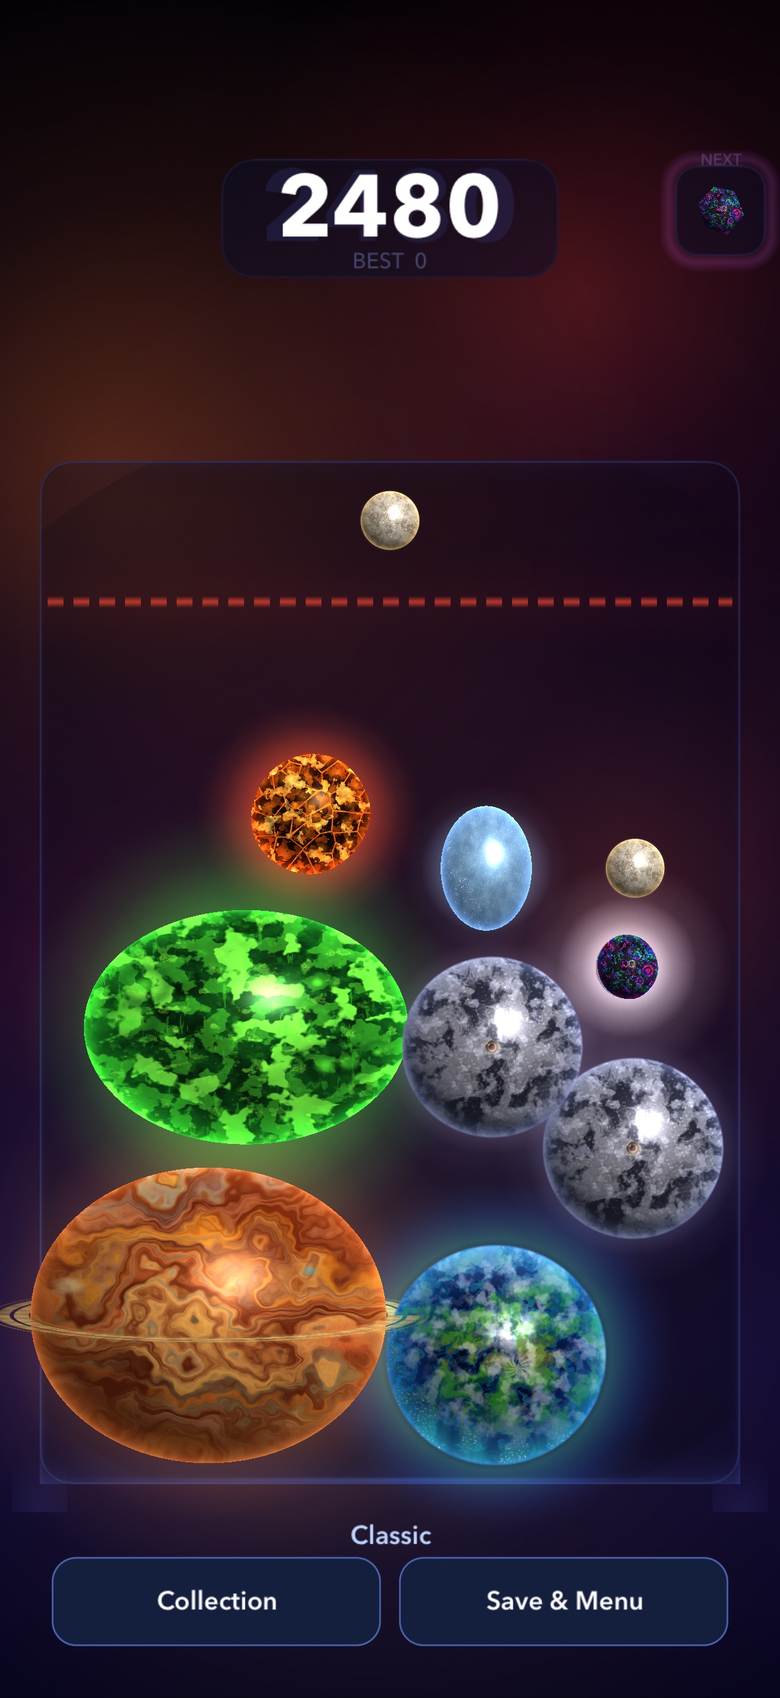
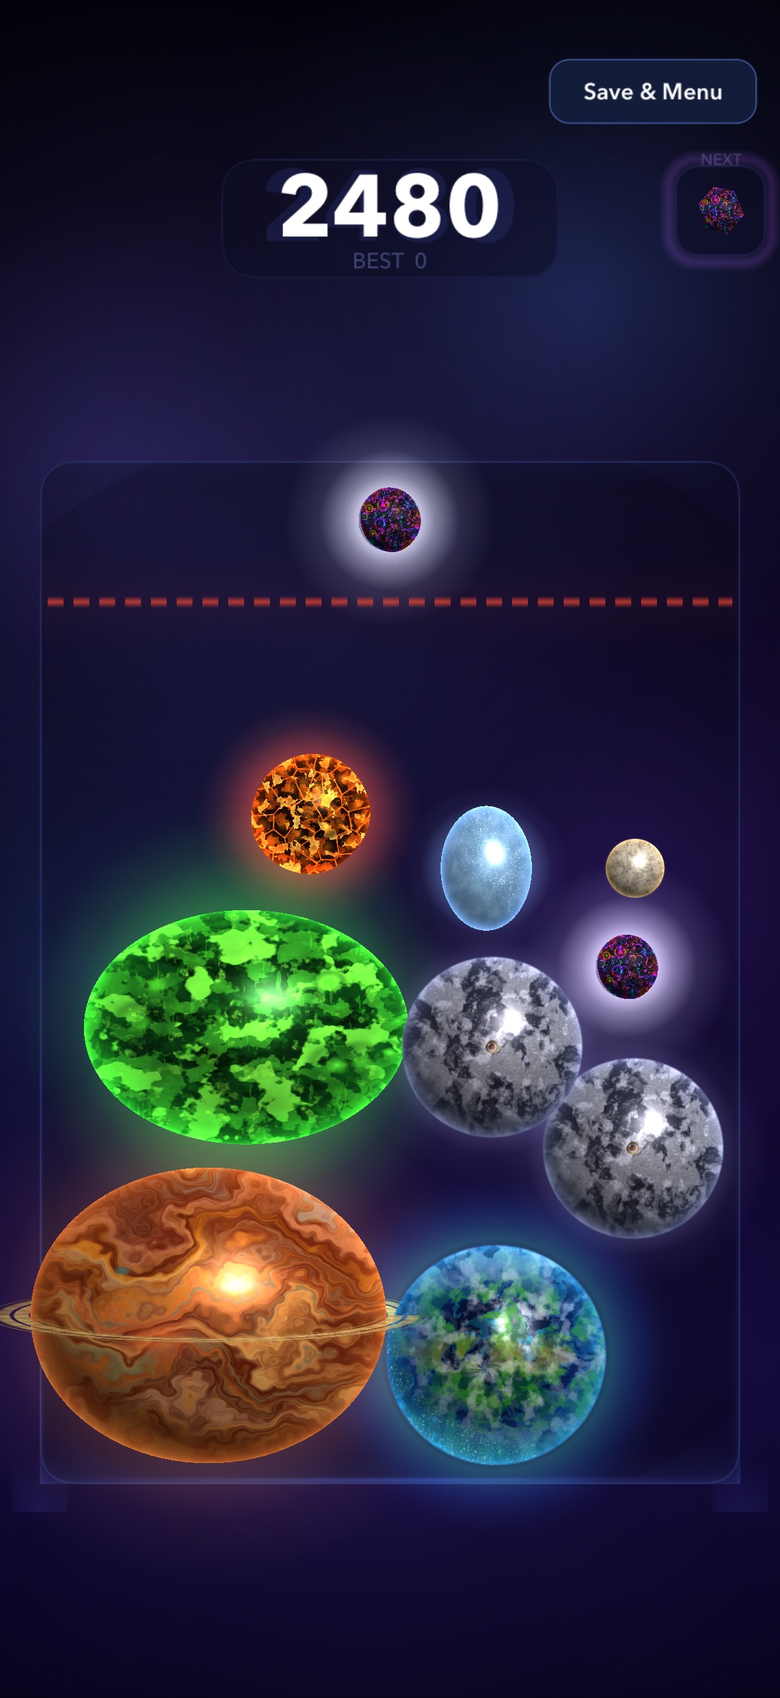
Update Normal mode copy and gameplay previews

diff --git a/support.html b/support.html
@@ -1,6 +1,6 @@
 <!doctype html><html lang="en"><head><meta charset="utf-8"><meta name="viewport" content="width=device-width,initial-scale=1"><title>Cosmic Merge Support — Controls, saved runs, and help</title><meta name="description" content="Learn Cosmic Merge controls on iPhone, iPad, Apple TV, and gamepad. Get help with saved runs, daily challenges, iCloud, and Game Center."><link rel="canonical" href="https://smidley.github.io/cosmic-merge-site/support.html"><link rel="icon" href="assets/favicon.svg" type="image/svg+xml"><link rel="stylesheet" href="assets/site.css?v=1.2.0"><meta property="og:title" content="Cosmic Merge Support"><meta property="og:description" content="Controls, saved runs, and help for your growing universe."><meta property="og:image" content="https://smidley.github.io/cosmic-merge-site/assets/gameplay-tv.jpeg"><meta name="twitter:card" content="summary_large_image"></head><body><a class="skip" href="#main">Skip to content</a><header><nav class="wrap" aria-label="Main navigation"><a class="brand" href="./"><img src="assets/favicon.svg" width="32" height="32" alt="">COSMIC MERGE</a><div class="links"><a href="support.html" aria-current="page">Support</a><a href="privacy.html">Privacy</a></div></nav></header><div class="preview"><div class="wrap">Version 1.2 preview · Save & Continue, Daily, Zen, and Collection are in development.</div></div><main id="main" class="wrap article"><p class="eyebrow">A little help from mission control</p><h1>Keep your universe moving.</h1><p class="lede">Find the controls, learn the special mechanics, and get help with progress.</p>
 <h2 id="controls">Controls</h2><p class="table-hint" id="controls-scroll-hint">On a small screen, swipe or scroll the table sideways to see every device. With a keyboard, focus the table and use the arrow keys.</p><div class="table-scroll" role="region" aria-label="Controls by device" aria-describedby="controls-scroll-hint" tabindex="0"><table><caption>Core controls by device</caption><thead><tr><th scope="col">Action</th><th scope="col">iPhone / iPad</th><th scope="col">Siri Remote</th><th scope="col">Extended gamepad on Apple TV</th></tr></thead><tbody><tr><th scope="row">Aim</th><td>Drag on the board</td><td>Pan the touchpad or press Left / Right</td><td>Left stick or D-pad Left / Right</td></tr><tr><th scope="row">Drop</th><td>Release your finger</td><td>Select</td><td>A / primary button</td></tr><tr><th scope="row">Swap with Next</th><td>Tap the Next preview</td><td>Up</td><td>Stick or D-pad Up</td></tr><tr><th scope="row">Storm Caller</th><td>Tap the charged badge, then a highlighted body</td><td>Down to arm; Left / Right to choose; Select to remove</td><td>X or Down to arm; Left / Right to choose; A to remove</td></tr><tr><th scope="row">Pause / back</th><td>Settings gear</td><td>Menu / Back or Play / Pause</td><td>B or Menu</td></tr><tr><th scope="row">Menu / volume</th><td>Tap controls or use the settings sliders</td><td>Up / Down to select; Left / Right on volume rows</td><td>Up / Down to select; Left / Right on volume rows</td></tr></tbody></table></div><p>When Storm Caller is armed, Back cancels target selection first. On the bare Apple TV title screen, the remote’s Back button returns control to the system. Extended gamepad support is for Apple TV; the iPhone and iPad interface uses touch.</p>
-<h2>Play and discover</h2><details><summary>How do merges, combos, and game over work?</summary><p>Two matching bodies merge into the next tier. Merges within one second extend a combo; merges high on the board earn a bonus. In Classic and Daily, a body’s center staying above the red danger line for two active seconds ends the run. Pause time does not count in version 1.2.</p></details><details><summary>What do ice, Storm Caller, and Black Holes do?</summary><p>Ice Rock pairs have a 20% chance to shatter into four shards instead of merging. Shards seek small bodies and clear Moonlets or Prism Rocks for up to nine active seconds. Creating a Storm World grants a Storm Caller charge. Select an eligible highlighted body to remove it. Black Holes periodically consume other bodies; merging two Black Holes adds a 10,000-point bonus.</p></details><details><summary>Which bodies can I draw?</summary><p>Moonlet, Prism Rock, Ice Rock, and Molten. Version 1.2 draws them independently with probabilities of 40%, 30%, 20%, and 10%. The full chain is Moonlet → Prism Rock → Ice Rock → Molten → Moon → Planet → Slime Planet → Gas Giant → Star → Storm World → Black Hole.</p></details><details><summary>What is new about Daily and Zen?</summary><p>Daily uses a seed based on the UTC date and Rules 2. There is one scored attempt per device per UTC day; starting it uses the attempt even if the app closes. Continue can resume a saved attempt. Practice uses the same seed without replacing your scored result. Seeded randomness does not guarantee identical physics across devices. Daily scores are local and can be shared; there is no online daily ranking in this preview.</p><p>Zen removes game over and keeps a separate best score. Use Clear Board when the stack fills up. Optional Zen Aim Assist gently snaps an aim near a matching body. Zen and Daily Practice do not contribute competitive lifetime statistics or Game Center achievements.</p></details>
-<h2>Saved runs and progress</h2><details><summary>How do I save and continue a run?</summary><p>In version 1.2, choose Save & Menu or Save & Return to Menu in Settings. Continue appears on the title screen. The game also saves about once per active second and when interrupted. A run stays on the device where it started; the board does not sync through iCloud. A board copied through a device backup can only continue on its original device, so its result cannot be counted twice. Starting a new run asks before ending an existing saved run. Tutorial progress is not saved.</p></details><details><summary>My saved run is missing or won’t load.</summary><p>First check that you are using the same device and version. Open the title screen and look for Continue. End Run deliberately removes the saved board, and starting another run replaces it after confirmation. If a save cannot be read, the app keeps the file and shows a recovery message; collection and lifetime records are stored separately. Avoid deleting or reinstalling the app before contacting support, because that can remove local saves.</p><p>When available storage is low, free space and try Save & Menu again. Include the recovery message in your support request. Runs from versions before 1.2 were not saved and cannot be reconstructed.</p></details><details><summary>Which progress syncs between devices?</summary><p>Version 1.2 uses iCloud for Classic and Zen best scores, lifetime statistics, and collection discoveries. Use the same Apple Account with iCloud enabled on each device and allow time for synchronization. Boards, daily attempt eligibility, and daily scores remain local. Concurrent device totals are merged without counting shared history twice. Keep devices on the same app version for the most consistent behavior.</p></details><details><summary>Why didn’t an achievement or score appear in Game Center?</summary><p>Check your Game Center sign-in and network connection, then reopen the game. Version 1.2 queues offline achievement progress and Classic scores and retries them after sign-in or returning to the app. Previously identified progress stays with its last signed-in player; progress earned before any sign-in is assigned to the first player who signs in. Changing players does not transfer the previous player’s pending achievements.</p><p>Rules 2 uses a separate Classic leaderboard because board proportions and spawn balance changed. Older scores remain on the legacy leaderboard. Game Center’s online setup for Rules 2 must be enabled before the new app release. Local play and saves work without Game Center.</p></details><details><summary>Can I reset a high score?</summary><p>The version 1.2 preview removes the misleading local reset control. It could not reset Game Center records and cloud synchronization could restore the score. Best scores and discoveries remain part of your progress. End Run affects only continuation of that board.</p></details>
+<h2>Play and discover</h2><p>Open Celestial Collection from the main menu or Settings to inspect your discoveries. Gameplay keeps the bottom of the screen free of menu buttons so you can aim and release comfortably.</p><details><summary>How do merges, combos, and game over work?</summary><p>Two matching bodies merge into the next tier. Merges within one second extend a combo; merges high on the board earn a bonus. In Normal and Daily, a body’s center staying above the red danger line for two active seconds ends the run. Pause time does not count in version 1.2.</p></details><details><summary>What do ice, Storm Caller, and Black Holes do?</summary><p>Ice Rock pairs have a 20% chance to shatter into four shards instead of merging. Shards seek small bodies and clear Moonlets or Prism Rocks for up to nine active seconds. Creating a Storm World grants a Storm Caller charge. Select an eligible highlighted body to remove it. Black Holes periodically consume other bodies; merging two Black Holes adds a 10,000-point bonus.</p></details><details><summary>Which bodies can I draw?</summary><p>Moonlet, Prism Rock, Ice Rock, and Molten. Version 1.2 draws them independently with probabilities of 40%, 30%, 20%, and 10%. The full chain is Moonlet → Prism Rock → Ice Rock → Molten → Moon → Planet → Slime Planet → Gas Giant → Star → Storm World → Black Hole.</p></details><details><summary>What is new about Daily and Zen?</summary><p>Daily uses a seed based on the UTC date and Rules 2. There is one scored attempt per device per UTC day; starting it uses the attempt even if the app closes. Continue can resume a saved attempt. Practice uses the same seed without replacing your scored result. Seeded randomness does not guarantee identical physics across devices. Daily scores are local and can be shared; there is no online daily ranking in this preview.</p><p>Zen removes game over and keeps a separate best score. Open Settings and choose Clear board when the stack fills up. Optional Zen Aim Assist gently snaps an aim near a matching body. Zen and Daily Practice do not contribute competitive lifetime statistics or Game Center achievements.</p></details>
+<h2>Saved runs and progress</h2><details><summary>How do I save and continue a run?</summary><p>In version 1.2, use the small Save & Menu button at the top of the screen, or choose Save & Return to Menu in Settings. Continue appears on the title screen. The game also saves about once per active second and when interrupted. A run stays on the device where it started; the board does not sync through iCloud. A board copied through a device backup can only continue on its original device, so its result cannot be counted twice. Starting a new run asks before ending an existing saved run. Tutorial progress is not saved.</p></details><details><summary>My saved run is missing or won’t load.</summary><p>First check that you are using the same device and version. Open the title screen and look for Continue. End Run deliberately removes the saved board, and starting another run replaces it after confirmation. If a save cannot be read, the app keeps the file and shows a recovery message; collection and lifetime records are stored separately. Avoid deleting or reinstalling the app before contacting support, because that can remove local saves.</p><p>When available storage is low, free space and try Save & Menu again. Include the recovery message in your support request. Runs from versions before 1.2 were not saved and cannot be reconstructed.</p></details><details><summary>Which progress syncs between devices?</summary><p>Version 1.2 uses iCloud for Normal and Zen best scores, lifetime statistics, and collection discoveries. Use the same Apple Account with iCloud enabled on each device and allow time for synchronization. Boards, daily attempt eligibility, and daily scores remain local. Concurrent device totals are merged without counting shared history twice. Keep devices on the same app version for the most consistent behavior.</p></details><details><summary>Why didn’t an achievement or score appear in Game Center?</summary><p>Check your Game Center sign-in and network connection, then reopen the game. Version 1.2 queues offline achievement progress and Normal scores and retries them after sign-in or returning to the app. Previously identified progress stays with its last signed-in player; progress earned before any sign-in is assigned to the first player who signs in. Changing players does not transfer the previous player’s pending achievements.</p><p>Rules 2 uses a separate Normal leaderboard because board proportions and spawn balance changed. Older scores remain on the legacy leaderboard. Game Center’s online setup for Rules 2 must be enabled before the new app release. Local play and saves work without Game Center.</p></details><details><summary>Can I reset a high score?</summary><p>The version 1.2 preview removes the misleading local reset control. It could not reset Game Center records and cloud synchronization could restore the score. Best scores and discoveries remain part of your progress. End Run affects only continuation of that board.</p></details>
 <h2>Comfort and accessibility</h2><p>Settings includes Reduce Effects, which also follows system Reduce Motion, and a 60 fps limit on iPhone and iPad. VoiceOver exposes discrete aim, drop, swap, and board-reading actions in version 1.2. The playable tutorial demonstrates three drops, swapping, and the danger rule. Apple TV has a Reduce Effects toggle in Settings.</p>
 <h2>Still need help?</h2><p>Email <a href="mailto:smidley@gmail.com">smidley@gmail.com</a> with your app version and build, device model, OS version, game mode, and the steps that led to the problem. A screenshot or the exact recovery message helps. Please do not include passwords or account credentials.</p><p><a href="./">← Back to Cosmic Merge</a></p></main><footer><div class="wrap footer-row"><span>Cosmic Merge · Support</span><div><a href="./">Home</a><a href="privacy.html">Privacy</a></div></div></footer></body></html>

diff --git a/privacy.html b/privacy.html
@@ -1,7 +1,7 @@
 <!doctype html><html lang="en"><head><meta charset="utf-8"><meta name="viewport" content="width=device-width,initial-scale=1"><title>Cosmic Merge — Privacy and saved data</title><meta name="description" content="How Cosmic Merge stores local saves, synchronizes progress with iCloud, and uses Apple Game Center."><link rel="canonical" href="https://smidley.github.io/cosmic-merge-site/privacy.html"><link rel="icon" href="assets/favicon.svg" type="image/svg+xml"><link rel="stylesheet" href="assets/site.css?v=1.2.0"><meta property="og:title" content="Cosmic Merge Privacy"><meta property="og:description" content="Your game data, explained."><meta property="og:image" content="https://smidley.github.io/cosmic-merge-site/assets/gameplay-tv.jpeg"><meta name="twitter:card" content="summary_large_image"></head><body><a class="skip" href="#main">Skip to content</a><header><nav class="wrap" aria-label="Main navigation"><a class="brand" href="./"><img src="assets/favicon.svg" width="32" height="32" alt="">COSMIC MERGE</a><div class="links"><a href="support.html">Support</a><a href="privacy.html" aria-current="page">Privacy</a></div></nav></header><div class="preview"><div class="wrap">Version 1.2 preview · This page describes the updated app before release.</div></div><main id="main" class="wrap article"><p class="eyebrow">Your game data, explained</p><h1>Privacy & saved progress.</h1><p>Prepared September 10, 2026 for the version 1.2 release.</p><p>Cosmic Merge does not include advertising, third-party analytics, or a developer-operated account service. Playing does not require creating an account with us.</p>
 <h2>Stored on your device</h2><p>The app stores audio, haptic, graphics, and accessibility preferences; personal bests and lifetime statistics; collection discoveries and their dates; and tutorial completion. Version 1.2 also stores one current run, including its board, score, queue, random generator state, abilities, and gameplay timers.</p><p>Daily attempt dates and results stay on the device. A random installation identifier and run sequence numbers prevent duplicate progress counting. A device marker is used locally to distinguish a backup restored onto another device; that marker is not sent to us or written to the iCloud progress record.</p>
-<h2>iCloud progress synchronization</h2><p>When your Apple Account supports iCloud synchronization, version 1.2 uses Apple’s iCloud key-value storage to synchronize Classic and Zen best scores, lifetime statistics, and collection discoveries. Progress records include a random installation identifier, cumulative counters, and discovery dates so updates from different devices can be combined.</p><p>Your live board, daily attempts and results, and settings do not sync through this feature. We do not operate a server that receives these iCloud records. Availability and account controls are managed by Apple.</p>
-<h2>Game Center</h2><p>If you sign in to Game Center, the app submits Classic scores and eligible achievement progress to Apple. Leaderboards and achievements use your Game Center player identity according to your Apple settings.</p><p>Pending submissions and confirmation state are stored locally by Game Center player identifier. Offline progress associated with a previously signed-in player remains with that player. Progress earned before any player signs in is assigned to the first player who signs in. Daily Practice, Zen, and tutorial runs do not submit competitive scores or achievements.</p>
+<h2>iCloud progress synchronization</h2><p>When your Apple Account supports iCloud synchronization, version 1.2 uses Apple’s iCloud key-value storage to synchronize Normal and Zen best scores, lifetime statistics, and collection discoveries. Progress records include a random installation identifier, cumulative counters, and discovery dates so updates from different devices can be combined.</p><p>Your live board, daily attempts and results, and settings do not sync through this feature. We do not operate a server that receives these iCloud records. Availability and account controls are managed by Apple.</p>
+<h2>Game Center</h2><p>If you sign in to Game Center, the app submits Normal scores and eligible achievement progress to Apple. Leaderboards and achievements use your Game Center player identity according to your Apple settings.</p><p>Pending submissions and confirmation state are stored locally by Game Center player identifier. Offline progress associated with a previously signed-in player remains with that player. Progress earned before any player signs in is assigned to the first player who signs in. Daily Practice, Zen, and tutorial runs do not submit competitive scores or achievements.</p>
 <h2>Sharing a result</h2><p>On iPhone and iPad, choosing Share creates a results card with an image of your board, score, highest tier, best combo, mode, and daily date when applicable. The share sheet also includes an App Store link. The app does not send the card automatically; you choose the destination and complete the share.</p>
 <h2>Controls and deletion</h2><p>You can change preferences in Settings and end a saved run from the game. Starting a new run asks before replacing an existing saved board. The app does not offer a global progress reset in version 1.2, and deleting the app does not necessarily remove progress stored by iCloud or Game Center. Apple provides account and service controls for those records. Removing the app can delete local continuation and daily records, so contact support before reinstalling to troubleshoot a missing save.</p>
 <h2>This website and support</h2><p>This site uses local assets and does not include analytics scripts or tracking cookies. It is hosted on GitHub Pages, whose infrastructure may process ordinary request information. App Store and Apple service links take you to Apple. If you email support, your email address and the contents of your message are used to respond to your request; email is handled by the mail providers involved.</p><p>For details about those services, see <a href="https://www.apple.com/legal/privacy/">Apple’s privacy information</a> and <a href="https://docs.github.com/en/site-policy/privacy-policies/github-general-privacy-statement">GitHub’s privacy statement</a>.</p>

diff --git a/index.html b/index.html
@@ -26,7 +26,7 @@
 <figure><div class="phone"><img src="assets/gameplay-phone.jpeg" width="1179" height="2565" fetchpriority="high" alt="A Cosmic Merge example board: a Gas Giant and Planet support a stack of Moons, a Slime Planet, Ice Rock, and smaller bodies below a red danger line."></div><figcaption>Rendered by the app. An example board from the version 1.2 preview.</figcaption></figure>
 </div>
 <section class="section" id="how-to-play"><div class="wrap"><p class="eyebrow">Easy to start. Space to master.</p><h2>Small moves.<br>Cosmic consequences.</h2><div class="steps"><div class="step"><h3>Aim and drop</h3><p>Drag to find your spot, then release. Tap Next to swap your held piece when another choice fits better.</p></div><div class="step"><h3>Find a match</h3><p>Two matching bodies become the next discovery. Merge again quickly to keep a combo going and build your score.</p></div><div class="step"><h3>Make room for wonder</h3><p>Keep body centers below the danger line. Ice shards clear small bodies; Storm Caller can remove a body when space gets tight.</p></div></div></div></section>
-<section class="section" id="new"><div class="wrap"><p class="eyebrow">Coming in version 1.2</p><h2>More ways to explore.</h2><p class="section-intro">Keep a favorite run going, meet today’s challenge, or take the pressure off and experiment.</p><div class="cards"><article class="card"><span class="tag">Pick up where you left off</span><h3>Save & Continue</h3><p>Your board, queue, score, and abilities stay with the run. Save to the menu and continue later on the same device.</p></article><article class="card"><span class="tag">A new seed every day</span><h3>Daily Cosmic Challenge</h3><p>One scored attempt per device each UTC day, plus unlimited practice. Share the dated result with friends. Daily results stay local; Classic has its own Game Center board.</p></article><article class="card"><span class="tag">Eleven bodies to discover</span><h3>Your celestial collection</h3><p>Reveal each body as you find it, keep its first-discovery date, and learn what makes it special.</p></article><article class="card"><span class="tag">Room to breathe</span><h3>Zen & a guided first flight</h3><p>Learn with three guided drops, then explore Zen without game over. Clear a crowded board whenever you want, with optional aim assistance and a separate best score.</p></article></div></div></section>
+<section class="section" id="new"><div class="wrap"><p class="eyebrow">Coming in version 1.2</p><h2>More ways to explore.</h2><p class="section-intro">Keep a favorite run going, meet today’s challenge, or take the pressure off and experiment.</p><div class="cards"><article class="card"><span class="tag">Pick up where you left off</span><h3>Save & Continue</h3><p>Your board, queue, score, and abilities stay with the run. Save to the menu and continue later on the same device.</p></article><article class="card"><span class="tag">A new seed every day</span><h3>Daily Cosmic Challenge</h3><p>One scored attempt per device each UTC day, plus unlimited practice. Share the dated result with friends. Daily results stay local; Normal has its own Game Center board.</p></article><article class="card"><span class="tag">Eleven bodies to discover</span><h3>Your celestial collection</h3><p>Reveal each body as you find it, keep its first-discovery date, and learn what makes it special.</p></article><article class="card"><span class="tag">Room to breathe</span><h3>Zen & a guided first flight</h3><p>Learn with three guided drops, then explore Zen without game over. Clear a crowded board whenever you want, with optional aim assistance and a separate best score.</p></article></div></div></section>
 <section class="section"><div class="wrap split"><div><p class="eyebrow">Your universe, on the big screen</p><h2>Settle in.<br>Let the planets roll.</h2><p class="section-intro">Play on Apple TV with the Siri Remote or a compatible extended gamepad. Aim with the touchpad or stick, select to drop, and pause whenever you need a moment.</p><a href="support.html#controls">See the controls →</a></div><figure><div class="tv"><img src="assets/gameplay-tv.jpeg" width="1920" height="1080" loading="lazy" alt="Cosmic Merge on Apple TV, with a centered board and larger score and next-piece panels to either side."></div><figcaption>An example Apple TV board, rendered by the version 1.2 app.</figcaption></figure></div></section>
 <section class="section"><div class="wrap"><p class="eyebrow">From the smallest spark</p><h2>Meet your growing universe.</h2><p class="section-intro">Every tier has its own shape and character. The first four can appear in your queue. The rest are yours to create.</p><ol class="tier-list" aria-label="Celestial tiers, in merge order"><li>Moonlet</li><li>Prism Rock</li><li>Ice Rock</li><li>Molten</li><li>Moon</li><li>Planet</li><li>Slime Planet</li><li>Gas Giant</li><li>Star</li><li>Storm World</li><li>Black Hole</li></ol></div></section>
 <section class="closing wrap"><p class="eyebrow">Your next discovery is a drop away</p><h2>Make a little space.</h2><div class="actions"><a class="button" href="https://apps.apple.com/app/id6761395215">Download Cosmic Merge</a></div><p class="quiet">Questions before launch? <a href="support.html">Visit support.</a></p></section>
